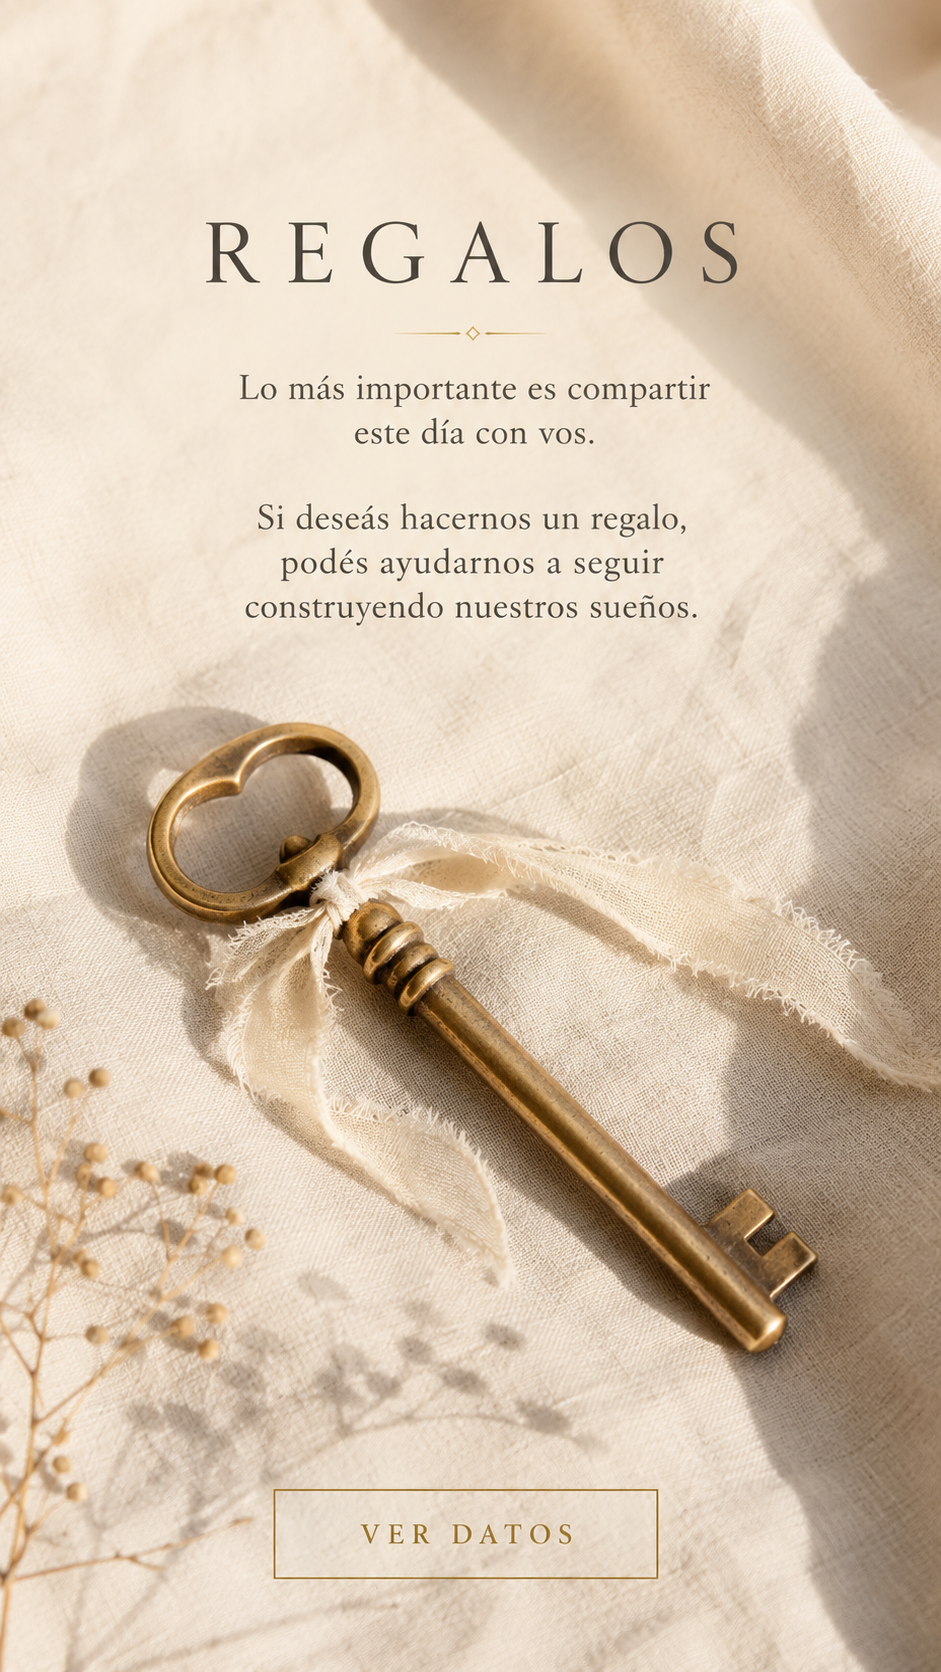
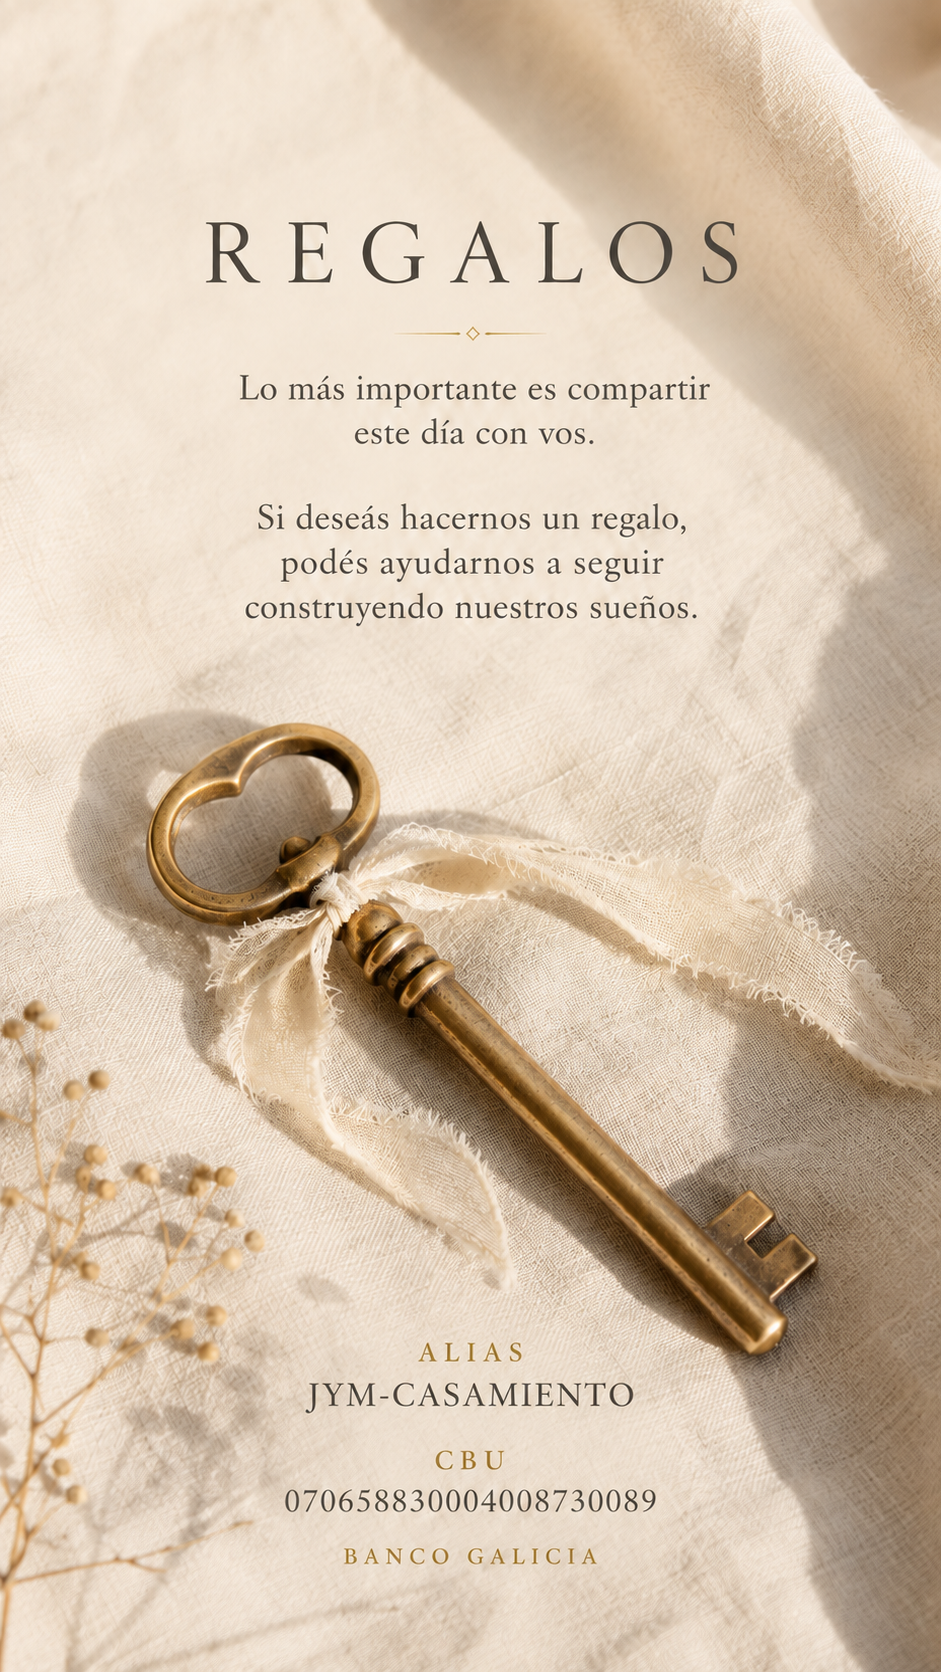
Reemplazar seccion de regalos

diff --git a/index.html b/index.html
@@ -341,28 +341,6 @@
         -webkit-mask-image: linear-gradient(to bottom, transparent 0, #000 calc(var(--section-overlap) * .55), #000 100%);
         mask-image: linear-gradient(to bottom, transparent 0, #000 calc(var(--section-overlap) * .55), #000 100%);
       }
-      .gifts-section__button {
-        left: 29%;
-        top: 85.4%;
-        width: 41%;
-        height: 5.7%;
-        display: grid;
-        place-items: center;
-        border: 1px solid #aa7e3f;
-        background: rgba(247, 239, 226, .94);
-        color: #9b7139;
-        font-family: Georgia, serif;
-        font-size: clamp(.72rem, 3vw, 1rem);
-        letter-spacing: .18em;
-      }
-      .gifts-section::after {
-        content: "";
-        position: absolute;
-        inset: 83.5% 0 0;
-        z-index: 1;
-        pointer-events: none;
-        background: linear-gradient(to bottom, rgba(244, 235, 221, 0), #f4ebdd 23%, #f4ebdd 100%);
-      }
       .rsvp-section__button {
         left: 21%;
         top: 89.1%;
@@ -410,72 +388,6 @@
         font-family: Didot, Georgia, serif;
         font-size: clamp(.86rem, 3.4vw, 1.25rem);
         letter-spacing: .04em;
-      }
-      .gift-dialog {
-        position: relative;
-        width: min(88%, 430px);
-        border: 1px solid #b99155;
-        border-radius: 24px;
-        padding: 0;
-        background: #f5ede1;
-        color: #282522;
-        box-shadow: 0 24px 80px rgba(32, 24, 17, .35);
-      }
-      .gift-dialog::backdrop {
-        background: rgba(26, 22, 18, .72);
-        backdrop-filter: blur(4px);
-      }
-      .gift-dialog__content { padding: 2rem 1.5rem 1.5rem; text-align: center; }
-      .gift-dialog__title {
-        margin: 0 0 .5rem;
-        font-family: Didot, "Bodoni 72", Georgia, serif;
-        font-size: 2rem;
-        font-weight: 400;
-        letter-spacing: .14em;
-      }
-      .gift-dialog__intro { margin: 0 0 1.5rem; color: #665b4f; }
-      .gift-dialog__item {
-        margin: .8rem 0;
-        padding: 1rem;
-        border: 1px solid rgba(169, 128, 63, .38);
-        border-radius: 14px;
-        background: rgba(255, 255, 255, .45);
-      }
-      .gift-dialog__label {
-        display: block;
-        margin-bottom: .4rem;
-        color: #8e6b39;
-        font-size: .72rem;
-        font-weight: 700;
-        letter-spacing: .22em;
-      }
-      .gift-dialog__value { display: block; font-size: 1rem; overflow-wrap: anywhere; }
-      .gift-dialog__copy {
-        min-height: 44px;
-        border: 1px solid #b99155;
-        border-radius: 999px;
-        font: inherit;
-        letter-spacing: .1em;
-      }
-      .gift-dialog__copy {
-        margin-top: .75rem;
-        padding: .55rem 1rem;
-        background: transparent;
-        color: #664b2c;
-      }
-      .gift-dialog__x {
-        position: absolute;
-        top: 10px;
-        right: 10px;
-        z-index: 2;
-        display: grid;
-        place-items: center;
-        width: 44px;
-        height: 44px;
-        padding: 10px;
-        border: 0;
-        border-radius: 0;
-        background: transparent;
       }
       .gallery-section {
         box-sizing: border-box;
@@ -813,9 +725,8 @@
         <img src="assets/album-colaborativo-v2.png" alt="Álbum colaborativo. Subí tus fotos y sé parte de nuestra historia. María y Julián, nuestra boda." loading="lazy" />
         <span class="interactive-image-section__button album-section__button" role="link" aria-label="Subir fotos al álbum colaborativo, enlace pendiente" aria-disabled="true">Subir fotos</span>
       </section>
-      <section class="image-section interactive-image-section gifts-section" aria-label="Regalos">
-        <img src="assets/regalos.png" alt="Regalos. Lo más importante es compartir este día con vos. Si deseás hacernos un regalo, podés ayudarnos a seguir construyendo nuestros sueños." loading="lazy" />
-        <button class="interactive-image-section__button gifts-section__button" id="open-gifts" type="button" aria-label="Ver datos para regalos">Ver datos</button>
+      <section class="image-section" aria-label="Regalos y datos bancarios">
+        <img src="assets/regalos.png" alt="Regalos. Alias JYM-CASAMIENTO, CBU 070658830004008730089, Banco Galicia." loading="lazy" />
       </section>
       <section class="image-section interactive-image-section rsvp-section" aria-label="Confirmación de asistencia">
         <img src="assets/confirmar-asistencia.png" alt="Confirmá antes del 15 de diciembre para que podamos reservar tu lugar. Estamos deseando celebrar con vos." loading="lazy" />
@@ -845,29 +756,6 @@
       <span class="audio-toggle__disc" aria-hidden="true">♪</span>
       <span class="audio-toggle__label">MÚSICA</span>
     </button>
-    <dialog class="gift-dialog" id="gift-dialog" aria-labelledby="gift-dialog-title">
-      <div class="gift-dialog__content">
-        <h2 class="gift-dialog__title" id="gift-dialog-title">REGALOS</h2>
-        <p class="gift-dialog__intro">Gracias por ayudarnos a seguir construyendo nuestros sueños.</p>
-        <div class="gift-dialog__item">
-          <span class="gift-dialog__label">ALIAS</span>
-          <strong class="gift-dialog__value">JYM-CASAMIENTO</strong>
-          <button class="gift-dialog__copy" type="button" data-copy="JYM-CASAMIENTO">Copiar alias</button>
-        </div>
-        <div class="gift-dialog__item">
-          <span class="gift-dialog__label">CBU</span>
-          <strong class="gift-dialog__value">070658830004008730089</strong>
-          <button class="gift-dialog__copy" type="button" data-copy="070658830004008730089">Copiar CBU</button>
-        </div>
-        <div class="gift-dialog__item">
-          <span class="gift-dialog__label">BANCO</span>
-          <strong class="gift-dialog__value">Banco Galicia</strong>
-        </div>
-        <button class="gift-dialog__x" id="close-gifts" type="button" aria-label="Cerrar datos para regalos">
-          <img class="modal-control-icon" src="assets/icons/x.svg" alt="" aria-hidden="true" />
-        </button>
-      </div>
-    </dialog>
     <dialog class="gallery-lightbox" id="gallery-lightbox" aria-label="Galería de fotos ampliada">
       <button class="gallery-lightbox__close" id="gallery-close" type="button" aria-label="Cerrar galería">
         <img class="modal-control-icon" src="assets/icons/x.svg" alt="" aria-hidden="true" />
@@ -959,32 +847,6 @@
           audioToggle.removeAttribute('inert');
           invitationMain.focus({ preventScroll: true });
         }, reducedMotion ? 320 : 2250);
-      });
-
-      const giftDialog = document.querySelector('#gift-dialog');
-      document.querySelector('#open-gifts').addEventListener('click', () => giftDialog.showModal());
-      document.querySelector('#close-gifts').addEventListener('click', () => giftDialog.close());
-      giftDialog.addEventListener('click', (event) => {
-        if (event.target === giftDialog) giftDialog.close();
-      });
-
-      document.querySelectorAll('[data-copy]').forEach((button) => {
-        button.addEventListener('click', async () => {
-          const originalText = button.textContent;
-          try {
-            await navigator.clipboard.writeText(button.dataset.copy);
-            button.textContent = '¡Copiado!';
-          } catch {
-            const temporaryInput = document.createElement('textarea');
-            temporaryInput.value = button.dataset.copy;
-            document.body.appendChild(temporaryInput);
-            temporaryInput.select();
-            document.execCommand('copy');
-            temporaryInput.remove();
-            button.textContent = '¡Copiado!';
-          }
-          setTimeout(() => { button.textContent = originalText; }, 1600);
-        });
       });
 
       const galleryItems = [
